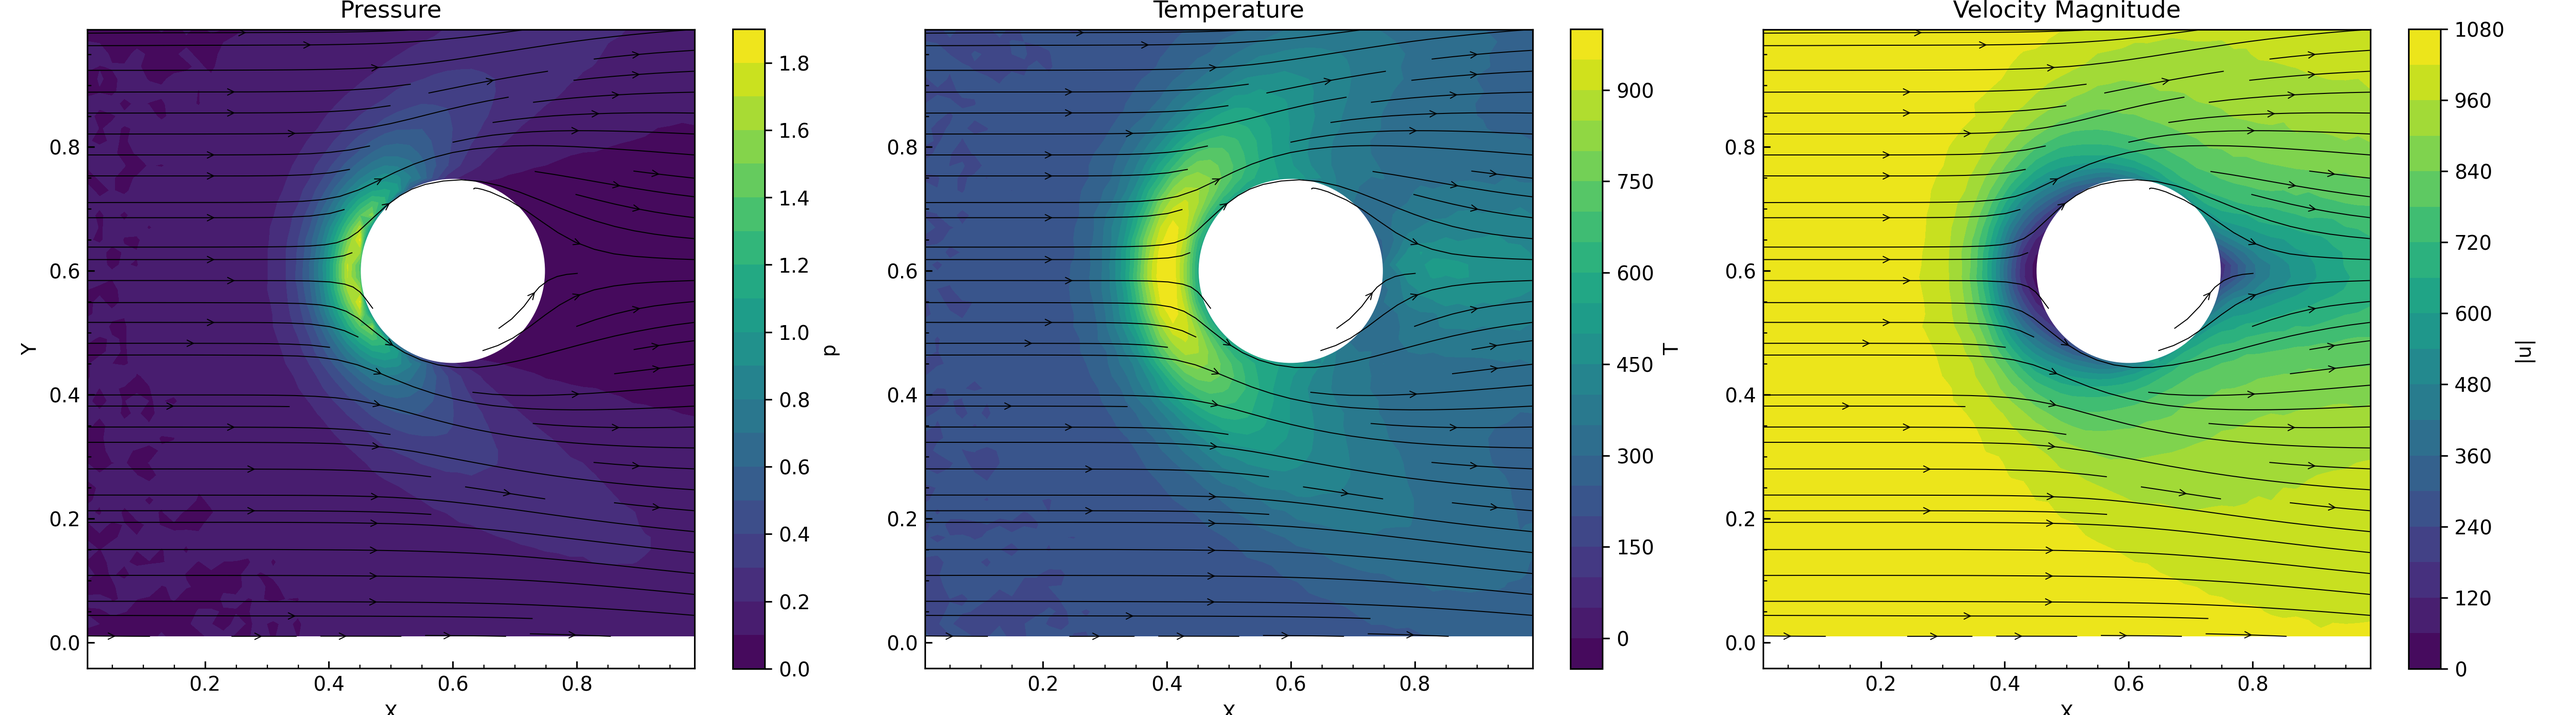
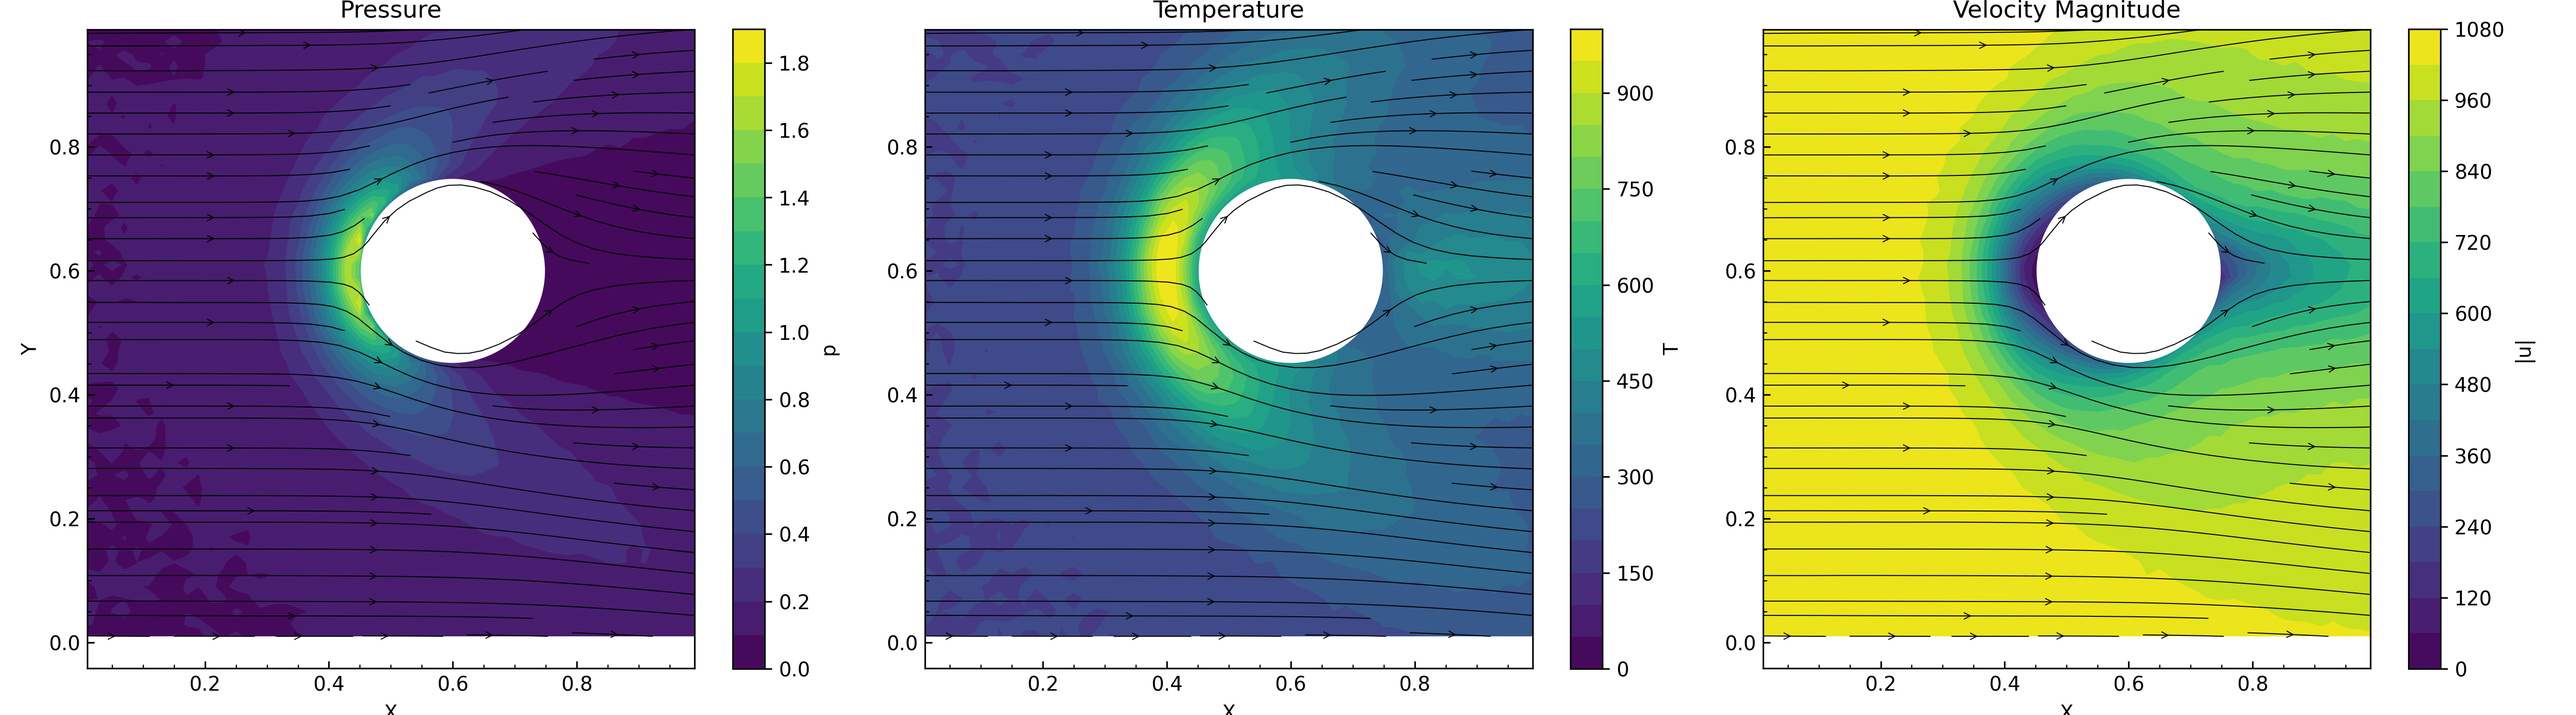
NX_local introduced

diff --git a/cuda/include/config.h b/cuda/include/config.h
@@ -7,13 +7,15 @@
 #define MAX_PARTICLES 30000000
 #define MAX_PARTICLES_PER_CELL 750
 #define NX 50
+#define EXPECTED_GPU_COUNT 2
+#define NX_local (NX / EXPECTED_GPU_COUNT)
 #define NY 50
 #define NZ 50
 
 #define PARTICLES_FIELD_SZ (MAX_PARTICLES * sizeof(float))
-#define SAMPLES_SZ (NX * NY * NZ * sizeof(Cell))
-#define CELL_COUNT_SZ (NX * NY * NZ * sizeof(int))
-#define CELL_LIST_SZ (NX * NY * NZ * MAX_PARTICLES_PER_CELL * sizeof(int))
+#define SAMPLES_SZ (NX_local * NY * NZ * sizeof(Cell))
+#define CELL_COUNT_SZ (NX_local * NY * NZ * sizeof(int))
+// #define CELL_LIST_SZ (NX * NY * NZ * MAX_PARTICLES_PER_CELL * sizeof(int))
 
 typedef struct {
     double KB;
